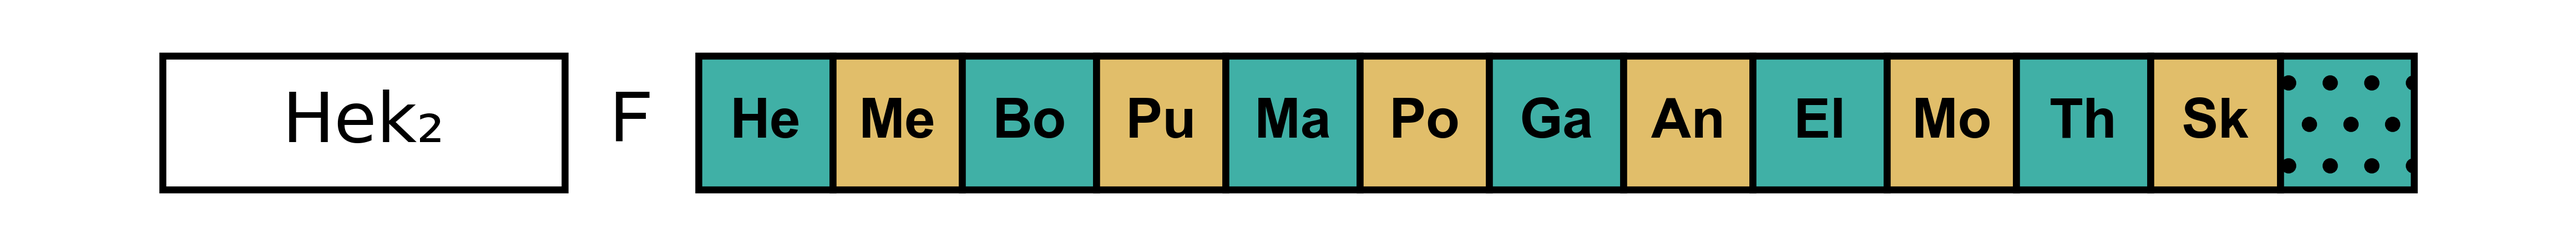
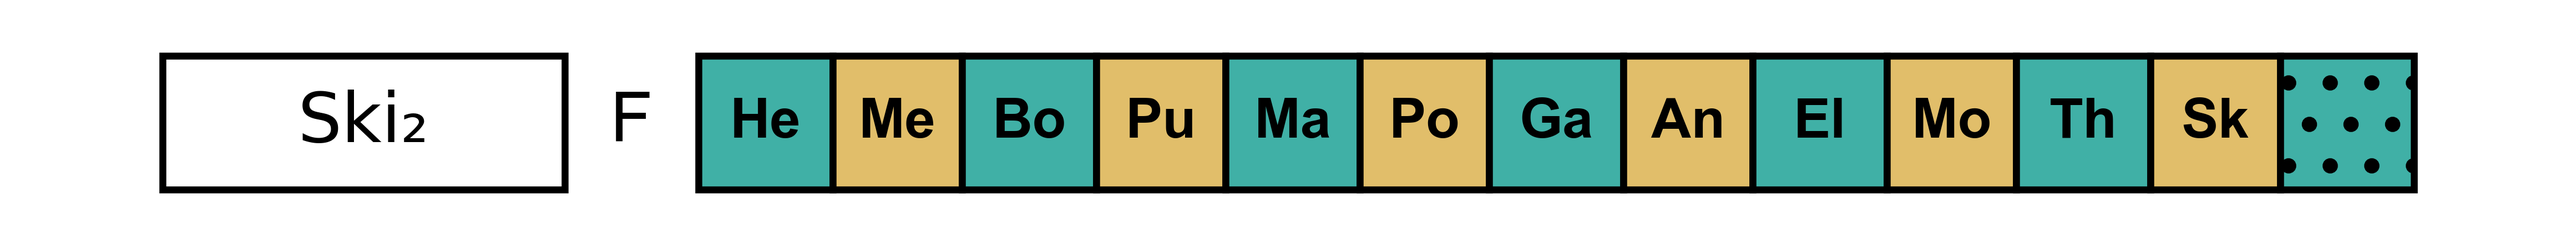
Rewrite of Festival Calendar Basics

Changed region(s): [[0.0937, 0.3506, 0.1874, 0.5843]]

diff --git a/guide/festival-calendar-basics.md b/guide/festival-calendar-basics.md
@@ -2,18 +2,9 @@
 
 [Top: Intro](README.md) | [Next: The Conciliar Calendar](conciliar-calendar.md)
 
-## Overview
+## The Months
 
-The essential details of the Athenian calendar are:
-
-1. Each month month began a new moon and lasted 29 or 30 days. A 29-day month was called "hollow", a 30-day "full." 
-2. The year began on the first new moon after the summer solstice.
-3. Most years had twelve months (354±1 days), but some needed thirteen (384±1 days). 
-4. The thirteenth month was one of the ordinary months repeated, usually the sixth month, Posideiṓn. This is called "intercalation"
-
-## Ordinary Years
-
-The twelve lunar months of the Athenian year were named:
+The Athenian "festival year" consisted of twelve lunar months:
 
 1. Hekatombaiṓn
 2. Metageitniṓn
@@ -28,54 +19,63 @@ The twelve lunar months of the Athenian year were named:
 11. Thargēliṓn
 12. Skirophoriṓn
 
-Each month began on the new moon, and the first day of the month was called [_noumēnía_](https://logeion.uchicago.edu/%CE%BD%CE%BF%CF%85%CE%BC%CE%B7%CE%BD%CE%AF%CE%B1) or, simply, "new moon." The year began on the first full moon after the summer solstice. Because Athenian years began in summer, when we convert them to modern equivalents we give them as a span of two years. For example, 424/3 BCE meaning "the year that began after the summer solstice of 424 BCE, and ran until the summer of 423 BCE."
+Cities thoughout Greece used calendars based on principles similar to those of the Athenian calendar, but the names of the months varied. In Thessaly, for instance, they were Itṓnios, Pánēmos, Themístios, Agagúlios, Hermaîos, Apollṓnios, Leskhanórios, Áphrios, Thuîos, Homolṓios, Hippodrómios, and Phulikkós (Samuel 1972, 85). We know the names of some of the Spartan months--Agriános, Artemísios, Geraístios, Hekatombeús, Hērásios, Karneîos, Huakínthios, Phliásios-- but not their precise order (Samuel 1972, 93).
 
-The time between one new moon and the next--a ["lunation" or "synodic month"](https://en.wikipedia.org/wiki/Lunar_month#Synodic_month)--is 29.53 days on average, plus or minus about 7 hours in any given lunation. The practical consequence of this is that on a calendar lunar months vary between 30 and 29 days. In an "idealized" version of the Athenian calendar these 30- and 29-day months, called [_plḗrēs_](https://logeion.uchicago.edu/%CF%80%CE%BB%CE%AE%CF%81%CE%B7%CF%82) "full" and [_koîlos_](https://logeion.uchicago.edu/%CE%BA%CE%BF%E1%BF%96%CE%BB%CE%BF%CF%82) "hollow" in Greek, alternate evenly, and there are six of each in the year.
+Many are obviously named for gods, and others are named for festivals (or vice versa) which shows their religious nature. The festival calendar is so called to distinguish it from the conciliar calendar (which we will get to) and because it provided timing for the many, many religious celebrations that Athens held. Some days were always sacred to a particular god--the 3rd of every month to Athena and 7th to Apollo for example. The first few days of every month were taken up with festivals like this (Mikalson 1976 14-20). Other celebrations were held once a year, including the major Athenian festivals (Mikalson 1976 201): 
 
-In this diagram, below, we will use the darker, green color to represent the six full months, the lighter, tan color the six hollow months. In this "ideal year" they alternate: 
+* Panathenaia: Hekatombaiṓn 23-30
+* Eleusinia: Metageitniṓn 15-18
+* Apatouria: Puanopsiṓn 19-21 or 26-28
+* Lenaia: Gamēliṓn 12-21
+* Lesser Eleusinia: Anthestēriṓn 20-26
+* City Dionysia: Elaphēboliṓn 10-16
+
+Each month was 30 days long (called [_plḗrēs_](https://logeion.uchicago.edu/%CF%80%CE%BB%CE%AE%CF%81%CE%B7%CF%82) or "full") or 29 (called [_koîlos_](https://logeion.uchicago.edu/%CE%BA%CE%BF%E1%BF%96%CE%BB%CE%BF%CF%82) "hollow"). In an "ideal" year there were six of each making for a year of 354 days. Unlike our Gregorian calendar in which the lengths of all the months (except for February) are fixed, an Athenian month was not always one length, but might be full in one year and hollow in another. In the simplest conception of the calendar the full and hollow months alternate, but it is equally valid and simple to imagine either the odd-numbered or even-numbered months as full: 
 
 ![idealized year](img/ideal.png)
 
-Since we would like to be able to convert ancient Athenian dates into equivalents on our calendar, if you knew the modern date of the first day of the year you could use simple arithmetic to find any equivalent date in this idealized year. For instance, when was Aristophanes' _Clouds_ first performed? We know it was first staged in 424/3 BCE, during the [City Dionysia](https://en.wikipedia.org/wiki/Dionysia#City_Dionysia) which was held every year from the 10th to the 16th of Elaphēboliṓn. Elaphēboliṓn is the ninth month and, as the diagram shows, was preceded in an "idealized" year by 4 full and four hollow months. 30 × 4 + 29 × 4 = 236, so the City Dionysia would be held from the 246th day (236 + 10) of the year to the 252nd day (236 + 16). If this Athenian year had started, for instance, on July 19, 424 BCE, you could calculate the dates of the City Dionysia as March 21-27, 423 BCE.
+For charts of the calendar, like this, we will use a darker, green color for full months and lighter, tan color for hollow months (the "F" stands for "festival year"). The first row shows a year where the six full months are the odd-numbered months, the second row the even numbered months.
 
-## Intercalary Years
+## The Year
 
-The same arithmetic will tell you that if this year began on July 19, 424 BCE, the next year began not on July 19, 423 but on July 8 because six full months and six hollow months add up to only 354 days (30 × 6 + 29 × 6 = 354), so twelve lunar months is 11 days shorter than the solar year of 365 days. This shortage of days will compound from year to the next and soon cause a complication.
+The Athenian calendar is classified as a [lunisolar calendar](https://en.wikipedia.org/wiki/Lunisolar_calendar) meaning that it depends partly on the moon, partly on the sun. This dual dependency lies in the fact that the year began in Athens on the first full moon after the summer solstice, and so you needed to track one solar event and one lunar event to know when Hekatombaiṓn 1 had arrived. For purposes of reconstructing historical years, we can start with modern calculations of both. For instance, the summer solstice in 424 BCE occurred on June 28 and the next new moon was on July 17 so Hekatombaiṓn for that year must have started around then (we will take up that "around" shortly). Since Athenian years start in the summer, when we convert them to Julian years we usually refer to them as a span of two. For example, 424/3 BCE means "the Athenian year that began after the summer solstice of 424 BCE, and ran until the summer of 423 BCE."
 
-Imagine a year in which the solstice occurs on the first day of the last month, Skirophoriṓn. In our idealized year, Skirophoriṓn is hollow so we reach the end of this year 29 days later. The next year then starts on Hekatombaiṓn 1, 29 days after solstice which we can call SOL + 29. Because of the difference in length between the solar year and 12 lunar months, the next solstice will fall not on the next Skirophoriṓn 1 but on Skirophoriṓn 12. The second year will then begin on SOL + 18 (11 days sooner than SOL + 29). The third solstice will fall on Skirophoriṓn 23, and the third year begins only 7 days later on SOL + 7. As we approach the fourth year, Skirophoriṓn ends _before_ the solstice and if Hekatombaiṓn were start right away it would be on SOL _minus_ 4. Clearly a problem if we say the year begins on the first new moon _after_ the solstice.
+(One brief note: Ancient dates are conventionally calculated according to the [Julian calendar](https://en.wikipedia.org/wiki/Julian_calendar)--that is, a 365 day year with every fourth a leap year of 366 days--projected backwards from Roman times. Our modern, [Gregorian calendar](https://en.wikipedia.org/wiki/Gregorian_calendar) makes the small correction of skipping the leap year every 400 years. The difference between the two is why the summer solstice today is usually June 21 while it is calculated as June 28 in the 5th century BCE.)
+
+The time when the year started was another point of difference between the calendars of different Greek cities. Delos, for instance, shared several month names with Athens--Lēnaiṓn, Hierós, Galaksiṓn, Artemisiṓn, Thargēliṓn, Pánēmos, Hekatombaiṓn, Metageitniṓn, Bouphoniṓn, Apatouriṓn, Arēsiṓn, Posideṓn--but in a different order because the year in Delos started after the _winter_ solstice rather than after the summer (Samuel 1972, 99-100).
+
+### Intercalary Years
+
+If a year started on July 17 and ran for six full and six hollow months making up 354 days, then that year would end on July 5. The next year, beginning on July 6, would end 354 days later on June 24 -- _before_ the solstice which occurs every 365 days.
+
+With a lunisolar calendar, this will always happen about every three years. Imagine a year in which the solstice occurs on the first day of the last month, Skirophoriṓn. In our idealized year, Skirophoriṓn is hollow so we reach the end of this year 29 days later. The next year then starts on Hekatombaiṓn 1, 29 days after the solstice which we can call SOL + 29. Because of the difference in length between the solar year and 12 lunar months, the next solstice will fall not on the next Skirophoriṓn 1 but on Skirophoriṓn 12. The second year will then begin on SOL + 18 (11 days sooner than SOL + 29). The third solstice will fall on Skirophoriṓn 23, and the third year begins only 7 days later on SOL + 7. As we approach the fourth year, Skirophoriṓn ends _before_ the solstice and if Hekatombaiṓn were start right away it would be on SOL _minus_ 4.
 
 In the diagram below, the top row represents the Athenian years with their months alternating between full (green) and hollow (tan). Each Skirophoriṓn is marked "S". The beginning of each Athenian year is indicated by the arrow and by Hekatombaiṓn marked "H". The bottom row represents the solar year running 365 days from solstice to solstice. The "red zone" at the end shows where the twelfth month ends before the solstice.
 
-![Instercalation shorfall](img/intercalation-shortfall.png)
+![Intercalation shorfall](img/intercalation-shortfall.png)
 
-The ancient Greeks solved this by adding another month to the calendar when necessary. This is called an "intercalation" and a year with an intercalation is called "intercalary" (as opposed to "ordinary"). As the scenario above shows, about every third year you will need a thirteenth month to extend the year past the solstice. The Athenians usually intecalated in the middle of the year, which we represent in this diagram as a month with the pattern of dots:
+To make sure that the year began after the solstice, the ancient Greeks would add an extra month to the calendar when necessary. This is called an "intercalation" and a year with an intercalation is called "intercalary" (as opposed to "ordinary"). As the scenario above shows, about every third year you will need a thirteenth month to extend the year past the solstice. The Athenians usually intecalated in the middle of the year, which we represent in the diagram below as a month with the pattern of dots. The top shows an intercalation after the sixth month in our idealized year with odd-numbered full months, the bottom an intercalation after the sixth month in an even-numbered-full year:
 
 ![idealized intercalary year](img/ideal-intercalated.png)
 
-This idealized intercalary year has thirteen months, 7 full and 6 hollow, adding up to 384 days.
-
-This intercalation follows the month Posideiṓn and would be called _Posideiṓn hústeros_ "later Posideiṓn", _Posideiṓn deúteros_ "second Posideiṓn" or _Posideiṓn embólimos_ "injected Posideiṓn." When we abbreviate we will indicate this with a subscript number 2: Pos₂ 
-
-Returning to the first performance of Aristophanes' _Clouds_, what if it happened in an intercalary year? If it was like the one illustrated above, Elaphēboliṓn would be the _10th_ month and everything would be 30 days later. The City Dionysia would happen on the 276th to the 282nd day of the year, April 21-27 if the year began on July 19.
-
-
-Posideiṓn was the most common, but _any_ month could be intercalated. The dates of the City Dionysia could just as well be delayed by an intercalated Hekatombaiṓn:
+This intercalation follows the month Posideiṓn and would be called _Posideiṓn hústeros_ "later Posideiṓn", _Posideiṓn deúteros_ "second Posideiṓn" or _Posideiṓn embólimos_ "injected Posideiṓn." When we abbreviate we will indicate this with a subscript number 2: Pos₂. Intercalations were most commonly made after Posideiṓn, but they could occur anywhere in the year, such as after Hekatombaiṓn:
 
 ![idealized intercalary year](img/ideal-hek2.png)
 
-But if the last month, Skirophoriṓn, were intercalated that would not affect the dates of any previous month: 
+or after Skirophoriṓn: 
 
 ![idealized intercalary year](img/ideal-ski2.png)
 
-In this scenario, Elaphēboliṓn is still the ninth month, just as in an "ordinary" year.
 
-How do we know if a year was intercalary or not? We don't--unless we have a dated inscription or some other evidence that tells us. Without knowing whether or not a year was intercalary, or what month was intercalated, you must assume that any ancient date could be off by 30 days. We can, however, use astronomy as a guide.
+Or anywhere in between. We do not know how this choice was made for any particular intercalary year
 
-## Heniautos & Astronomy
+The first year on the Pos₂ chart and the Ski₂ chart above have seven full and six hollow months for a total of 384 days. This is often given as the "normal" length of an intercalary year and if the Athenians had wished they could have made sure to only ever intercalate a full month so that itercalary years would always have 384 days. It is likely, though, that there were intercalary years like the second Pos₂ chart and the Hek₂ year above, with 383 days (six full months and seven hollow). It also seems that it was possible to have a 355-day ordinary year (seven full months and 5 hollow), but it is less certain whether there could be 353 or 385 day years. In any case, an "idealized" year is a fiction. Even with a regular alternation of full and hollow months at some point you will have a year that is 383 days rather than 384, or 355 rather than 354, or has two full or two hollow months in a row. Debate about the nature of the Athenian calendar revolves around how regular or irregular it really was and how the evidence, mostly from inscriptions, should be interpreted to fit one theory or another.
 
-Heniautos can generate example calendars for ancient dates based on modern calculations of ancient solstices and new moons. It has long been a matter of debate how rigid or flexible the Athenians were with their calendar and whether it was based on some system, on direct observation of the crescent of the new moon or on calculation. Heniautos uses a simplistic approximation of observation (and optionally calculation) to generate what the calendar for a year might have been, by default, if the new moon was observed on the second day after the [conjunction](https://en.wikipedia.org/wiki/Conjunction_(astronomy)). 
+## Really Lunar Months
 
-Here is the calendar for 424/3 BCE (showing output from the Heniautos command):
+The time between one new moon and the next--a ["lunation" or "synodic month"](https://en.wikipedia.org/wiki/Lunar_month#Synodic_month)--is 29.53 days on average, plus or minus about 7 hours in any given lunation. This is what gives us the alternation between 29 and 30 day months in a lunisolar calendar. It has long been a matter of debate how rigid or flexible the Athenians were with their calendar and whether the succession of full and hollow months was based on some system, on calculation, or on direct observation of the crescent of the new moon. Heniautos generates example calendars for ancient dates based on the assumption that all months began on actual, observed new moons. This is both because I believe it is true, and because this is where a computer is most helpful. If you believe this assumption is wrong, Heniautos will still help you to generate counter-examples to show that.
+
+In order to do this, Heniautos uses a simplified approximation of observation, by default, treating the second day after the [conjunction](https://en.wikipedia.org/wiki/Conjunction_(astronomy)) as the day when the first light of the waxing new moon was visible.  Here is the calendar for 424/3 BCE (showing output from the [Heniautos command](heniautos-command.md)):
 
     > heniautos 424 -m
          Year     |        Month          |      Start      | Days
@@ -93,30 +93,29 @@ Here is the calendar for 424/3 BCE (showing output from the Heniautos command):
     BCE 424/423   | Thargēliṓn            | BCE 0423-May-10 |   30
     BCE 424/423   | Skirophoriṓn          | BCE 0423-Jun-09 |   29    
 
-The command `heniautos 424` gives us the year that began in 424 BCE (that is, 424/3) The `-m` option tells Heniautos to output a monthly summary (see [`heniautos` Command](heniautos-command.md) for details). The fields are the Athenian Year, the month, the Julian date of the first day of the month, and the number of days in the month. As you can see, actual astronomical lunations _are_ either 29 or 30 days, but they do _not_ alternate regularly. This is more clear on a chart of the full and hollow months: 
+The command `heniautos 424` gives us the year that began in 424 BCE (that is, 424/3) The `-m` option tells Heniautos to output a monthly summary (see [`heniautos` Command](heniautos-command.md) for details). The fields are the Athenian Year, the month, the Julian date of the first day of the month, and the number of days in the month. This year does not start on the day of the new moon (July 17, as we saw above) but on the second day after, July 19. You can see that the actual astronomical lunations _are_ either 29 or 30 days, but they do _not_ alternate regularly. This is perhaps easier to see on a chart: 
 
 ![424/3 BCE](img/424.png)
 
-In 434 BCE the summer solstice was on June 28. The new moon, as defined by the astronomical conjunction, occurred at 9:10 in the morning (Athens time) on July 17. If the first sliver of the waxing crescent became visible on the second evening afterwards, then the Hekatombaiṓn would have started on July 19. The first days of the following months are calculated in the same way from the following astronomical conjunctions.
+By this reconstruction, for example, the City Dionysia of 424/423  (Elaphēboliṓn 10-16) where Aristophanes' _Clouds_ was first performed took place March 21-27, 423 BC. It worth noting that this is no different from the hypothetical "ideal" calendar, at least so fas as Elaphēboliṓn is concerned. Elaphēboliṓn is preceded by four full and four hollow months in both. The astronomical data simply suggests a different order.
 
-What does this give us for the dates of the City Dionysia? Without the `-m` option used above, Heniautos will output the whole year. The output is abbreviated below to show just the days we are interested in. The fields are the Athenian Year, the month, the day of the month, the Julian date, and the day of the year:
+### Why Two Days?
 
-    > heniautos 424
-    ...
-    BCE 424/423   | Elaphēboliṓn          |  10 | BCE 0423-Mar-21 | 246
-    BCE 424/423   | Elaphēboliṓn          |  11 | BCE 0423-Mar-22 | 247
-    BCE 424/423   | Elaphēboliṓn          |  12 | BCE 0423-Mar-23 | 248
-    BCE 424/423   | Elaphēboliṓn          |  13 | BCE 0423-Mar-24 | 249
-    BCE 424/423   | Elaphēboliṓn          |  14 | BCE 0423-Mar-25 | 250
-    BCE 424/423   | Elaphēboliṓn          |  15 | BCE 0423-Mar-26 | 251
-    BCE 424/423   | Elaphēboliṓn          |  16 | BCE 0423-Mar-27 | 252
-    ...
-    
-Exactly the same. The full and hollow months are in a different order, but, if you count them, Elaphēboliṓn happens to be preceded again by 4 full and 4 hollow months.
+If the ancient Athenians used observations of the new moon to fix the beginning of each month (a hypothesis used by Heniautos) then exactly what "observation" means takes a little explaining. The conjunction (by which astronomers define the new moon) is the moment when the Earth, Moon, and Sun are all in a line. This moment often happens in the the daytime, and the moon is only ever visible at the conjunction when it causes an eclipse. The "common-sense" definition of the new moon is not the conjunction but the moment when the first sliver of a waxing crescent is visible to the human eye.
 
-By default, Heniautos places the "observed" new moon two days after the conjunction. This is merely an approximation since the there are many factors that go into determining when the first sliver of the waxing crescent moon can be observed at a given location--not least of all the care taken and eyesight of the people making the observations.
+To return to the example of Elaphēboliṓn 424/3, Heniautos calculates its first day as March 12, 423 BCE. There was an (astronomical) new moon on March 10 at 2:36 PM. When the sun set that evening the moon was probably low on the horizon and almost certainly too faint to see. The default "second day" rule used by Heniautos assumes that the crescent is not visible until the day after the conjunction. If the moon was visible on the next day, though, March 11, why not say that this was the first day of Elaphēboliṓn?
 
-Heniautos provides three options for this approximation. The default is the "second day rule" which you can explicitly enable with `heniautos -r 2`. `heniautos -r 1` will give you the dates according to a "next day rule" by which the new moons are observed on the next day after the conjunction. `-r 0` will generate dates as if the Athenians began their months on the day of the conjunction. For the year 424/3 BCE, the only effect is advancing the date. With `-r 1` the pattern of full and hollow months is the same, but the year starts on July 18 rather than July 19:
+The ancient Greeks probably defined the day as beginning at sunset (Samuel 1972, 13; Pritchett 1999, 85-89 would disagree), not at midnight or sunrise as we do. When the conjunction occured in the afternoon of March 10, it would have been Anthestēriṓn 29 in Athens. When the sun set that evening the next day began, so it was now Anthestēriṓn 30 to an Athenian even though to us it was still March 10. When the first light of the crescent was observed after sunset on March 11, the Athenian would say "Now it is Elaphēboliṓn." Therefore Elaphēboliṓn 424/3 technically did start in the evening of March 11. However, if there was a meeting of the Ekklēsía on Elaphēboliṓn 1, it would have happened in the daylight hours on March 12. For simplicity we say that the equivalent Greek and Julian days are the days of these overlapping "business" hours, as indicated on the chart below.
+
+![Ela 1/March 12 423 BCE](img/ela-1-mar-12.png)
+
+The top row shows the span of the Greek days, beginning at sunsets (marked by the arrows). The bottom row shows "modern" days, offset because they begin at midnight.
+
+This is the same as the Jewish and Islamic calendars still in use. Days begin at sunset so while we say that Shabbat is "Saturday" it begins in the evening on Friday, as Juma is "Friday" but begins on Thursday. The modern Jewish and Islamic calendars are identical in many ways the to Greek calendar and they all descend from the ancient [Babylonian Calendar](https://en.wikipedia.org/wiki/Babylonian_calendar)
+
+Heniautos provides two other options for estimating the visible new moon besides the "second day rule." Since we do not know how the Athenians determined the first day of a month, or for sure when their day started or how this might have changed over time, it is important to consider all of the possibilities. 
+
+The median of the number of hours after the astronomical conjunction that the new moon becomes visible (at Athens) is 41.5 hours (see Dunn 1998, 214-216) or just under two days or, to put it another way, just over one. Heniautos can also use a "next day rule," that estimates the visible new moon as one day after the conjunction. To use this with the `heniautos` command, add `-r 1` or `--rule 1` For 424/3 BCE this simply has the effect of advancing all the dates one day:
 
     > heniautos 424 -m -r 1
          Year     |        Month          |      Start      | Days
@@ -133,8 +132,8 @@ Heniautos provides three options for this approximation. The default is the "sec
     BCE 424/423   | Mounuchiṓn            | BCE 0423-Apr-10 |   29
     BCE 424/423   | Thargēliṓn            | BCE 0423-May-09 |   30
     BCE 424/423   | Skirophoriṓn          | BCE 0423-Jun-08 |   29 
-    
-And one day sooner again with `-r 0`:
+
+You can also use `-r 0` to treat months as starting on the day of the astronomical conjunction (which Greek astronomers understood and were perfectly able to calculate). `-r 0` will move all the 424/3 dates up one more day:
 
     > heniautos 424 -m -r 0 
          Year     |        Month          |      Start      | Days
@@ -152,25 +151,7 @@ And one day sooner again with `-r 0`:
     BCE 424/423   | Thargēliṓn            | BCE 0423-May-08 |   30
     BCE 424/423   | Skirophoriṓn          | BCE 0423-Jun-07 |   29
 
-The median of the number of hours after the astronomical conjunction that the new moon becomes visible (at Athens) is 41.5 hours (see Dunn 1998, 214-216) or just under two days--between the `-r 1` and `-r 2` options Any of these options is adequate for saying the that the City Dionysia took place, and Aristophanes' _Clouds_ staged for the first time _around_ March 21-27, 423 BCE.
-
-While the traditional Greek calendar was replaced by the Julian calendar as Greece came under closer control by the Roman Empire, this method still allows us to make a hypothetical Athenian calendar for any year, including modern ones. Heniautos treats the years you give it as BCE by default, but with the `--as-ce` parameter you can change this and get a calendar for, say, 2021/2 CE:
-
-    > heniautos 2021 -m --as-ce 
-         Year     |        Month          |      Start      | Days
-    --------------|-----------------------|-----------------|-----
-     CE 2021/2022 | Hekatombaiṓn          |  CE 2021-Jul-12 |   29
-     CE 2021/2022 | Metageitniṓn          |  CE 2021-Aug-10 |   30
-     CE 2021/2022 | Boēdromiṓn            |  CE 2021-Sep-09 |   29
-     CE 2021/2022 | Puanopsiṓn            |  CE 2021-Oct-08 |   29
-     CE 2021/2022 | Maimaktēriṓn          |  CE 2021-Nov-06 |   30
-     CE 2021/2022 | Posideiṓn             |  CE 2021-Dec-06 |   29
-     CE 2021/2022 | Gamēliṓn              |  CE 2022-Jan-04 |   30
-     CE 2021/2022 | Anthestēriṓn          |  CE 2022-Feb-03 |   29
-     CE 2021/2022 | Elaphēboliṓn          |  CE 2022-Mar-04 |   30
-     CE 2021/2022 | Mounuchiṓn            |  CE 2022-Apr-03 |   29
-     CE 2021/2022 | Thargēliṓn            |  CE 2022-May-02 |   30
-     CE 2021/2022 | Skirophoriṓn          |  CE 2022-Jun-01 |   30
+Any of these options is adequate for saying the that the City Dionysia took place, and Aristophanes' _Clouds_ was staged for the first time _around_ March 21-27, 423 BCE. The choice of rule can, however, have a large impact on intercalations if the generated calendar when a new moon is very close to the solstice.
 
 ## Heniautos and Intercalations
  
@@ -196,7 +177,9 @@ Heniautos intercalates when it is astronomically necessary. The year 406/5, for 
 The diagram for the year looks like this:
 ![406/5 BCE](img/406.png)
 
-If you require accuracy, for scholary or other reasons, you need to take care with intercalations. These astronomical calculations are a good guide, but in the abscence of historical evidence we cannot be sure that any year was ordinary or intercalary. We are not sure how the Athenians decided when to intercalate not do we know how much they were concerned with astronomical accuracy. When a new moon is very close to the solstice, when and how the moon was observed becomes very important. Take the years 321-319, for instance. If we give Heniautos two years, a start year and an end year, it will generate the calendar for all years in the range. This is most useful with the `-y` or year summary option but works with others as well. The fields in the year summary are the Athenian year, whether the year is ordinary (O) or intercalary (I), and the Julian date of the first day of the year.
+If you require accuracy, for scholary or other reasons, you need to take care with intercalations. These astronomical calculations are a good guide, but in the abscence of historical evidence we cannot be sure that any year was ordinary or intercalary. We are not sure how the Athenians decided when to intercalate not do we know how much they were concerned with astronomical accuracy. 
+
+When a new moon is very close to the solstice, when and how the moon was observed becomes very important. Take the years 321-319, for instance. If we give `heniautos` two years, a start year and an end year, it will generate the calendar for all years in the range. This is most useful with the `-y` or year summary option but works with others as well. The fields in the year summary are the Athenian year, whether the year is ordinary (O) or intercalary (I), and the Julian date of the first day of the year.
 
     > heniautos 321 319 -y 
          Year     | Y |      Start      | Days
@@ -214,38 +197,36 @@ By the default "second day rule" Heniautos makes the year 320/19 ordinary and 31
     BCE 320/319   | I | BCE 0320-Jul-08 |  384
     BCE 319/318   | O | BCE 0319-Jul-27 |  354
 
-This shifts the dates so that 320/19 is intercalated and 319/8 ordinary. In fact we know from two inscriptions ([IG II² 381](https://epigraphy.packhum.org/text/2598?hs=250-274) & [382](https://epigraphy.packhum.org/text/2599?hs=267-289)) that 320/9 had a _Posideiṓn hústeros_. For 320/19 BCE, `-r 0` or `-r 1` will give a defensible result, the default `-r 2` will not.
+This shifts the dates so that 320/19 is intercalated and 319/8 ordinary. In fact we know from two inscriptions ([IG II² 381](https://epigraphy.packhum.org/text/2598?hs=250-274) & [382](https://epigraphy.packhum.org/text/2599?hs=267-289)) that 320/19 had a _Posideiṓn hústeros_. For 320/19 BCE, `-r 0` or `-r 1` will give a defensible result, the default `-r 2` will not.
 
-## Why "Festival Calendar"?
+## Fun with Hypothetical Calendars
 
-There was another calendar used in Athens from the 5th century to the 2nd century BCE, called (by modern historians) the conciliar calendar, which regulated business of the Ekklēsía and which we will talk about next. The festival calendar is so called because it provided timing for the many, many religious celebrations that Athens held. Some days were always sacred to a particular god--the 3rd of every month to Athena and 7th to Apollo for example. The first few days of every month were taken up with festivals like this (Mikalson 1976 14-20). Other celebrations were held once a year, including the major Athenian festivals (Mikalson 1976 201): 
+While the traditional Greek calendar was replaced by the Julian calendar as Greece came under closer control by the Roman Empire, we can make a hypothetical Athenian calendar for any year, including modern ones, since the astronomy does not change. `heniautos` treats the years you give it as BCE by default, but with the `--as-ce` parameter you can change this and get a calendar for, say, 2021/2 CE:
 
-* Panathenaia: Hekatombaiṓn 23-30
-* Eleusinia: Metageitniṓn 15-18
-* Apatouria: Puanopsiṓn 19-21 or 26-28
-* Lenaia: Gamēliṓn 12-21
-* Lesser Eleusinia: Anthestēriṓn 20-26
-* City Dionysia: Elaphēboliṓn 10-16
+    > heniautos 2021 -m --as-ce 
+         Year     |        Month          |      Start      | Days
+    --------------|-----------------------|-----------------|-----
+     CE 2021/2022 | Hekatombaiṓn          |  CE 2021-Jul-12 |   29
+     CE 2021/2022 | Metageitniṓn          |  CE 2021-Aug-10 |   30
+     CE 2021/2022 | Boēdromiṓn            |  CE 2021-Sep-09 |   29
+     CE 2021/2022 | Puanopsiṓn            |  CE 2021-Oct-08 |   29
+     CE 2021/2022 | Maimaktēriṓn          |  CE 2021-Nov-06 |   30
+     CE 2021/2022 | Posideiṓn             |  CE 2021-Dec-06 |   29
+     CE 2021/2022 | Gamēliṓn              |  CE 2022-Jan-04 |   30
+     CE 2021/2022 | Anthestēriṓn          |  CE 2022-Feb-03 |   29
+     CE 2021/2022 | Elaphēboliṓn          |  CE 2022-Mar-04 |   30
+     CE 2021/2022 | Mounuchiṓn            |  CE 2022-Apr-03 |   29
+     CE 2021/2022 | Thargēliṓn            |  CE 2022-May-02 |   30
+     CE 2021/2022 | Skirophoriṓn          |  CE 2022-Jun-01 |   30
 
-## Why Two Days? `-r 2` vs. `-r 1` or `-r 0`
-
-If the ancient Athenians used observations of the new moon to fix the beginning of each month (a hypothesis used by Heniautos) then exactly what "observation" means takes a little explaining. The conjunction (by which astronomers define the new moon) is the moment when the Earth, Moon, and Sun are all in a line. This moment often happens in the the daytime, and the moon is only ever visible at the conjunction when it causes an eclipse. The "common-sense" definition of the new moon is not the conjunction but the moment when the first sliver of a waxing crescent is visible to the human eye.
-
-To return to the example of Elaphēboliṓn 424/3, Heniautos calculates its first day as March 12, 423 BCE. There was an (astronomical) new moon on March 10 at 2:36 PM. When the sun set that evening the moon was probably low on the horizon and almost certainly too faint to see. The default "second day" rule used by Heniautos assumes that the crescent is not visible until the day after the conjunction. If the moon was visible on the next day, though, March 11, why not say that this was the first day of Elaphēboliṓn?
-
-The ancient Greeks defined the day as beginning at sunset (most, but not all, scholars agree), not at midnight or sunrise as we do. When the conjunction occured in the afternoon of March 10, it would have been Anthestēriṓn 29 in Athens. When the sun set that evening the next day began, so it was now Anthestēriṓn 30 to an Athenian even though to us it was still March 10. When the first light of the crescent was observed after sunset on March 11, the Athenian would say "Now it is Elaphēboliṓn." Therefore Elaphēboliṓn 424/3 technically did start in the evening of March 11. However, if there was a meeting of the Ekklēsía on Elaphēboliṓn 1, it would have happened in the daylight hours on March 12. For simplicity we say that the equivalent Greek and Julian days are the days of these overlapping "business" hours, as indicated on the chart below.
-
-![Ela 1/March 12 423 BCE](img/ela-1-mar-12.png)
-
-The top row shows the span of the Greek days, beginning at sunsets (marked by the arrows). The bottom row shows "modern" days, offset because they begin at midnight.
-
-This is the same as the Jewish and Islamic calendars still in use. Days begin at sunset so while we say that Shabbat is "Saturday" it begins in the evening on Friday, as Juma is "Friday" but begins on Thursday. The modern Jewish and Islamic calendars are identical in many ways the to Greek calendar and they all descend from the ancient [Babylonian Calendar](https://en.wikipedia.org/wiki/Babylonian_calendar)
 
 [Top: Intro](README.md) | [Next: The Conciliar Calendar](conciliar-calendar.md)
 
 ## Works Cited
 
-Dunn, Francis M. 1998. “Tampering with the Calendar.” _Zeitschrift Für Papyrologie und Epigraphik_ 123: 213–31.
-Mikalson, Jon D. 1976. _Sacred and Civil Calendar of the Athenian Year_. Princeton: Princeton University Press.
+* Dunn, Francis M. 1998. “Tampering with the Calendar.” _Zeitschrift Für Papyrologie und Epigraphik_ 123: 213–31.
+* Mikalson, Jon D. 1976. _Sacred and Civil Calendar of the Athenian Year_. Princeton: Princeton University Press.
+* Pritchett, W. Kendrick. 1999. “Postscript: The Athenian Calendars.” _Zeitschrift für Papyrologie Und Epigraphik_ 128: 79–93.
+* Samuel, Alan Edouard. 1972. _Greek and Roman Chronology: Calendars and Years in Classical Antiquity_. Handbuch Der Altertumswissenschaft, 1. Abt., 7. T. München: Beck.
 
     

diff --git a/guide/README.md b/guide/README.md
@@ -10,9 +10,9 @@
 8. [Reading Dated Inscriptions](reading-dated-inscriptions.md)
 
 
-If you are new to the Athenian calendar, start with [Festival Calendar Basics](festival-calendar-basics.md) and [The Conciliar Calendar](conciliar-calendar.md). Athenians used these two parallel calendars and it is their differences and overlaps that allow us to explore many of the details about how the reckoned the year.
+If you are new to the Athenian calendar, start with [Festival Calendar Basics](festival-calendar-basics.md) and [The Conciliar Calendar](conciliar-calendar.md). Athenians used these two parallel calendars and it is their differences and overlaps that allow us to explore many of the details about how they reckoned the year.
 
-[`heniautos` Command](heniautos-command.md) has full details about how to use this `heniautos` to generate many different views of the Athenian calendar.
+[`heniautos` Command](heniautos-command.md) has full details about how to use `heniautos` to generate many different views of the Athenian calendar.
 
 Once you are more interested in the nitty-gritty of this calendar, read  [Calendar Equations](calendar-equations.md) and [`calendar-equations` Command](calendar-equations-command.md) to get started on the fascinating (and frustrating) puzzles in the evidence from ancient dated inscriptions.
 
